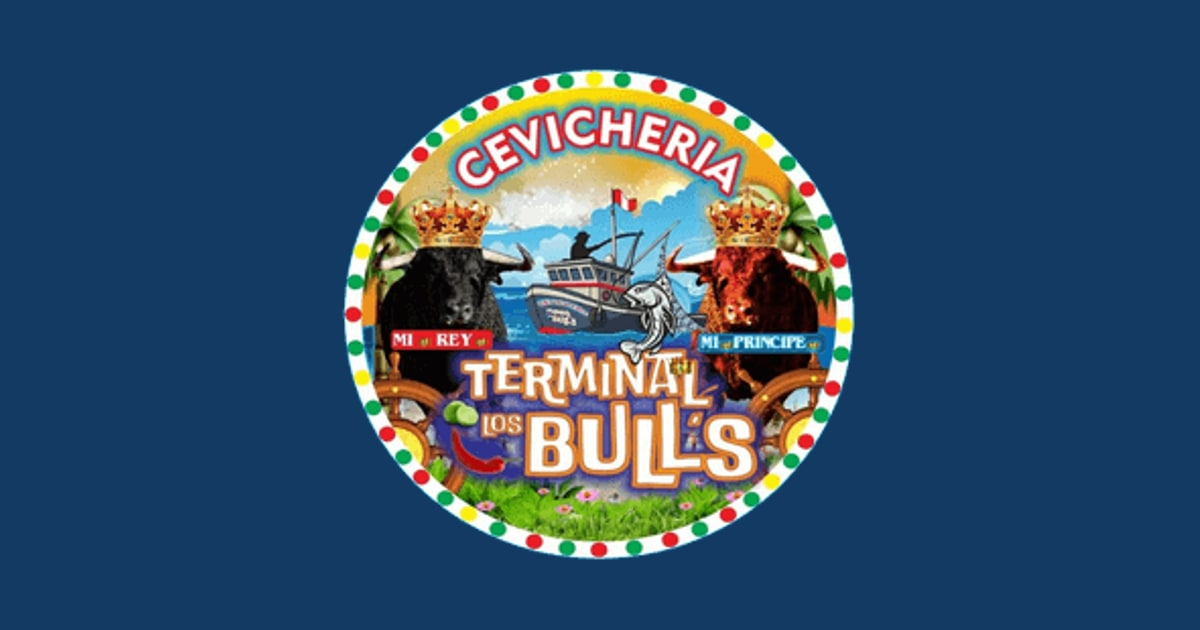
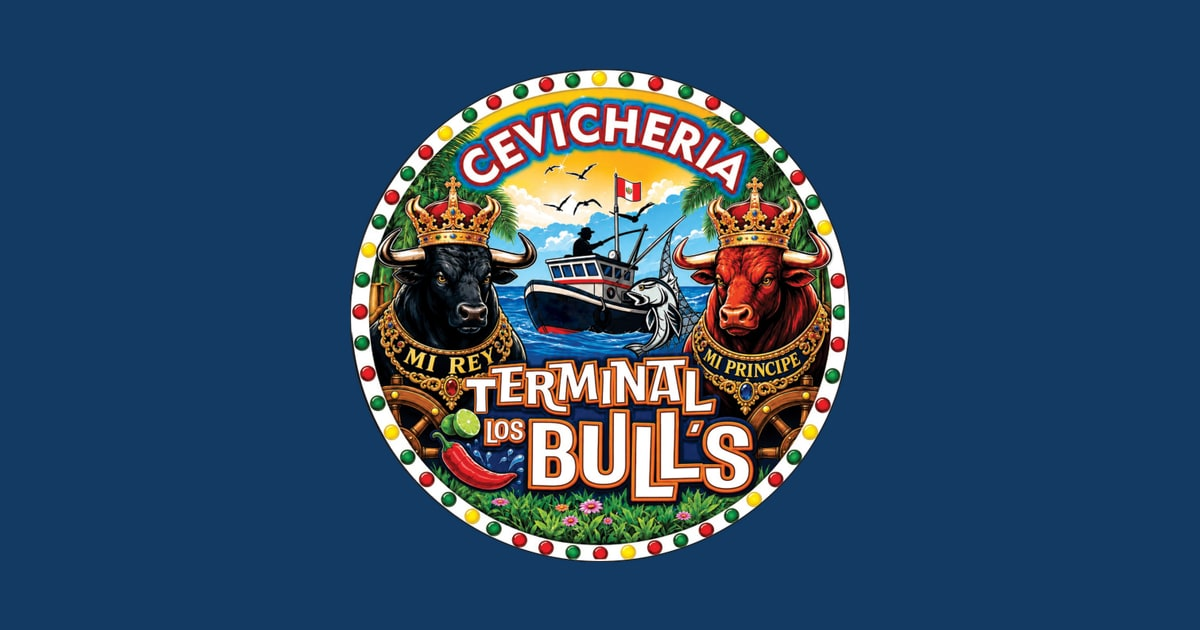
@ Los Bulls: fotos propias del catalogo y segundo telefono
Del catalogo en PDF (187 MB, 8 paginas) se extraen 142 imagenes con
pdf-parse. De ahi salen fotos profesionales de sus platos, ya recortadas
sobre transparente, y el logo con los colores correctos.

FOTOS. Se acaban las de banco: cero unsplash en la pagina.
- Hero y banda: fuentes reales del local, compuestas sobre el azul de la
  marca porque el catalogo las trae recortadas sobre nada
- Fichas de ceviches, chicharrones y para compartir: su plato real
- Para calentar se queda con la olla dibujada. El catalogo no tiene
  ninguna foto de sopa, y la unica candidata era una leche de tigre, que
  es fria: poner eso en la categoria de platos calientes seria decirle al
  cliente algo que no es

LOGO. El del catalogo reemplaza al recorte de la imagen de WhatsApp: ya
viene transparente y con los colores correctos. El JPEG suelto del PDF de
logo venia en CMYK sin marcador de inversion y salia con los colores
cambiados, asi que se descarto.

TELEFONO. Se agrega +51 926 335 001 junto al primero, en contacto y en el
JSON-LD.

@

Changed region(s): [[0.2775, 0.0905, 0.74, 0.9048]]

diff --git a/cevicheria-terminal-los-bulls/index.html b/cevicheria-terminal-los-bulls/index.html
@@ -24,7 +24,10 @@
   "@type": "Restaurant",
   "name": "Cevichería Terminal Los Bull's",
   "servesCuisine": "Peruana, cevichería",
-  "telephone": "+51981531329",
+  "telephone": [
+    "+51981531329",
+    "+51926335001"
+  ],
   "priceRange": "S/ 4 - S/ 100",
   "address": {
     "@type": "PostalAddress",
@@ -77,7 +80,7 @@
 
   <section id="inicio" class="relative overflow-hidden px-4 pb-10 pt-12" style="color: #ffffff">
     <div class="absolute inset-0" aria-hidden="true">
-      <img src="https://images.unsplash.com/photo-1535399831218-d5bd36d1a6b3?w=1600&q=78" alt="" fetchpriority="high" decoding="async"
+      <img src="assets/hero.jpg" alt="" fetchpriority="high" decoding="async"
            class="h-full w-full object-cover">
       <div class="absolute inset-0" style="background: linear-gradient(180deg, rgba(9,26,44,0.86) 0%, rgba(9,26,44,0.72) 55%, rgba(18,58,99,0.92) 100%)"></div>
     </div>
@@ -108,7 +111,7 @@
       <div class="grid grid-cols-2 gap-3">
         <a href="#ceviches-y-tiraditos" class="ficha reveal group relative isolate flex overflow-hidden rounded-2xl no-underline col-span-2 min-h-[124px] items-center gap-4 p-5"
            style="background: var(--color-primario); color: #ffffff">
-          <svg class="ficha-ilus ficha-ilus-ancha" viewBox="0 0 64 64" fill="none" stroke="currentColor" stroke-width="2.4" stroke-linecap="round" stroke-linejoin="round" aria-hidden="true"><path d="M7 33h50c0 12-11 21-25 21S7 45 7 33Z"/><path d="M20 25a7 7 0 1 1 14 0"/><path d="M27 18v7M20 25h14"/><path d="M40 20c7 0 12 3 15 6-3 3-8 6-15 6-6 0-10-3-10-6s4-6 10-6Z"/></svg>
+          <img src="assets/plato-ceviches.png" alt="" loading="lazy" decoding="async" class="ficha-foto ficha-foto-ancha">
           <span class="ficha-num" aria-hidden="true">10</span>
           <span class="relative flex min-w-0 flex-1 flex-col gap-1">
             <span class="font-display text-[15px] leading-tight ">CEVICHES</span>
@@ -124,7 +127,7 @@
         </a>
         <a href="#para-calentar" class="ficha reveal group relative isolate flex overflow-hidden rounded-2xl no-underline col-span-1 min-h-[150px] flex-col justify-between p-4"
            style="background: var(--color-acento); color: #ffffff">
-          <svg class="ficha-ilus " viewBox="0 0 64 64" fill="none" stroke="currentColor" stroke-width="2.4" stroke-linecap="round" stroke-linejoin="round" aria-hidden="true"><path d="M13 28h38v18a7 7 0 0 1-7 7H20a7 7 0 0 1-7-7V28Z"/><path d="M8 28h48"/><path d="M13 36H8a4 4 0 0 1 0-8h5M51 36h5a4 4 0 0 0 0-8h-5"/><path d="M25 20c0-4 4-5 4-9M35 20c0-4 4-5 4-9"/></svg>
+          <svg class="ficha-ilus" viewBox="0 0 64 64" fill="none" stroke="currentColor" stroke-width="2.4" stroke-linecap="round" stroke-linejoin="round" aria-hidden="true"><path d="M13 28h38v18a7 7 0 0 1-7 7H20a7 7 0 0 1-7-7V28Z"/><path d="M8 28h48"/><path d="M13 36H8a4 4 0 0 1 0-8h5M51 36h5a4 4 0 0 0 0-8h-5"/><path d="M25 20c0-4 4-5 4-9M35 20c0-4 4-5 4-9"/></svg>
           <span class="ficha-num" aria-hidden="true">20</span>
           <span class="relative flex min-w-0 flex-1 flex-col gap-0 justify-between h-full">
             <span class="font-display text-[15px] leading-tight mb-auto">PARA<br>CALENTAR</span>
@@ -140,7 +143,7 @@
         </a>
         <a href="#frituras-chicharrones-y-jaleas" class="ficha reveal group relative isolate flex overflow-hidden rounded-2xl no-underline col-span-1 min-h-[150px] flex-col justify-between p-4"
            style="background: #0e6b8f; color: #ffffff">
-          <svg class="ficha-ilus " viewBox="0 0 64 64" fill="none" stroke="currentColor" stroke-width="2.4" stroke-linecap="round" stroke-linejoin="round" aria-hidden="true"><path d="M12 32c8-9 21-13 30-9 6 2 10 5 12 9-2 4-6 7-12 9-9 4-22 0-30-9Z"/><circle cx="44" cy="28" r="2"/><path d="M12 32L5 25v14l7-7Z"/><path d="M26 24c2 4 2 12 0 16"/></svg>
+          <img src="assets/plato-frituras.png" alt="" loading="lazy" decoding="async" class="ficha-foto ">
           <span class="ficha-num" aria-hidden="true">8</span>
           <span class="relative flex min-w-0 flex-1 flex-col gap-0 justify-between h-full">
             <span class="font-display text-[15px] leading-tight mb-auto">CHICHARRONES<br>Y JALEAS</span>
@@ -156,7 +159,7 @@
         </a>
         <a href="#para-compartir" class="ficha reveal group relative isolate flex overflow-hidden rounded-2xl no-underline col-span-2 min-h-[124px] items-center gap-4 p-5"
            style="background: #f2b705; color: #2a1f00">
-          <svg class="ficha-ilus ficha-ilus-ancha" viewBox="0 0 64 64" fill="none" stroke="currentColor" stroke-width="2.4" stroke-linecap="round" stroke-linejoin="round" aria-hidden="true"><ellipse cx="32" cy="35" rx="27" ry="14"/><ellipse cx="32" cy="34" rx="20" ry="9"/><circle cx="24" cy="32" r="4"/><circle cx="35" cy="36" r="4"/><circle cx="43" cy="31" r="3"/></svg>
+          <img src="assets/plato-compartir.png" alt="" loading="lazy" decoding="async" class="ficha-foto ficha-foto-ancha">
           <span class="ficha-num" aria-hidden="true">5</span>
           <span class="relative flex min-w-0 flex-1 flex-col gap-1">
             <span class="font-display text-[15px] leading-tight ">PARA COMPARTIR</span>
@@ -207,7 +210,7 @@
 
   <section id="carta" class="relative overflow-hidden px-4 py-16 text-white">
     <div class="absolute inset-0" aria-hidden="true">
-      <img src="https://images.unsplash.com/photo-1626645738196-c2a7c87a8f58?w=1200&q=75" alt="" loading="lazy" decoding="async" class="h-full w-full object-cover">
+      <img src="assets/banda.jpg" alt="" loading="lazy" decoding="async" class="h-full w-full object-cover">
       <div class="absolute inset-0" style="background: rgba(11,32,51,0.82)"></div>
     </div>
     <div class="relative mx-auto max-w-5xl">
@@ -1428,7 +1431,10 @@
       </div>
       <div class="mt-8">
         <p class="m-0 text-xs font-bold uppercase tracking-widest" style="color: #8fd3f4">WhatsApp</p>
-        <a href="tel:+51981531329" class="mt-1.5 inline-flex min-h-[44px] items-center text-[19px] font-semibold no-underline hover:underline" style="color: #ffffff">+51 981 531 329</a>
+        <div class="mt-1.5 flex flex-wrap items-center justify-center gap-x-5 gap-y-1 sm:justify-start">
+          <a href="tel:+51981531329" class="inline-flex min-h-[44px] items-center text-[19px] font-semibold no-underline hover:underline" style="color: #ffffff">+51 981 531 329</a>
+          <a href="tel:+51926335001" class="inline-flex min-h-[44px] items-center text-[19px] font-semibold no-underline hover:underline" style="color: #ffffff">+51 926 335 001</a>
+        </div>
       </div>
       <a href="https://wa.me/51981531329?text=Hola%20Los%20Bull's%2C%20vi%20su%20p%C3%A1gina%20web%20y%20quisiera%20hacer%20una%20consulta." target="_blank" rel="noopener"
          class="mt-8 inline-flex min-h-[52px] items-center justify-center gap-2 rounded-full px-8 text-[16px] font-bold no-underline shadow-lg transition hover:scale-[1.02]"

diff --git a/cevicheria-terminal-los-bulls/assets/styles.css b/cevicheria-terminal-los-bulls/assets/styles.css
@@ -466,20 +466,33 @@ body.con-barra-movil {
 --------------------------------------------------------------------------- */
 .ficha-ilus {
   position: absolute;
-  right: -18px;
-  bottom: -20px;
-  width: 118px;
-  height: 118px;
+  right: -16px;
+  bottom: -18px;
+  width: 112px;
+  height: 112px;
   opacity: 0.34;
   pointer-events: none;
   z-index: -1;
 }
-.ficha-ilus-ancha {
-  right: 58px;
-  bottom: -26px;
+
+.ficha-foto {
+  position: absolute;
+  right: -10px;
+  bottom: -14px;
+  width: 124px;
+  height: auto;
+  max-height: 118px;
+  object-fit: contain;
+  object-position: bottom right;
+  filter: drop-shadow(0 3px 6px rgba(0, 0, 0, 0.35));
+  pointer-events: none;
+  z-index: -1;
+}
+.ficha-foto-ancha {
+  right: 52px;
+  bottom: -10px;
   width: 132px;
-  height: 132px;
-  opacity: 0.28;
+  max-height: 126px;
 }
 
 /* El numero de platos, en grande y muy tenue, como foliatura */
@@ -518,6 +531,6 @@ body.con-barra-movil {
   box-shadow: 0 5px 0 rgba(0, 0, 0, 0.22);
 }
 @media (prefers-reduced-motion: no-preference) {
-  .ficha, .ficha-ilus, .ficha-flecha { transition: transform 0.16s ease, box-shadow 0.16s ease, opacity 0.16s ease, background 0.16s ease; }
-  .ficha:hover .ficha-ilus, .ficha:focus-visible .ficha-ilus { opacity: 0.46; }
+  .ficha, .ficha-foto, .ficha-flecha { transition: transform 0.16s ease, box-shadow 0.16s ease, opacity 0.16s ease, background 0.16s ease; }
+  .ficha:hover .ficha-foto, .ficha:focus-visible .ficha-foto { transform: scale(1.06); }
 }
